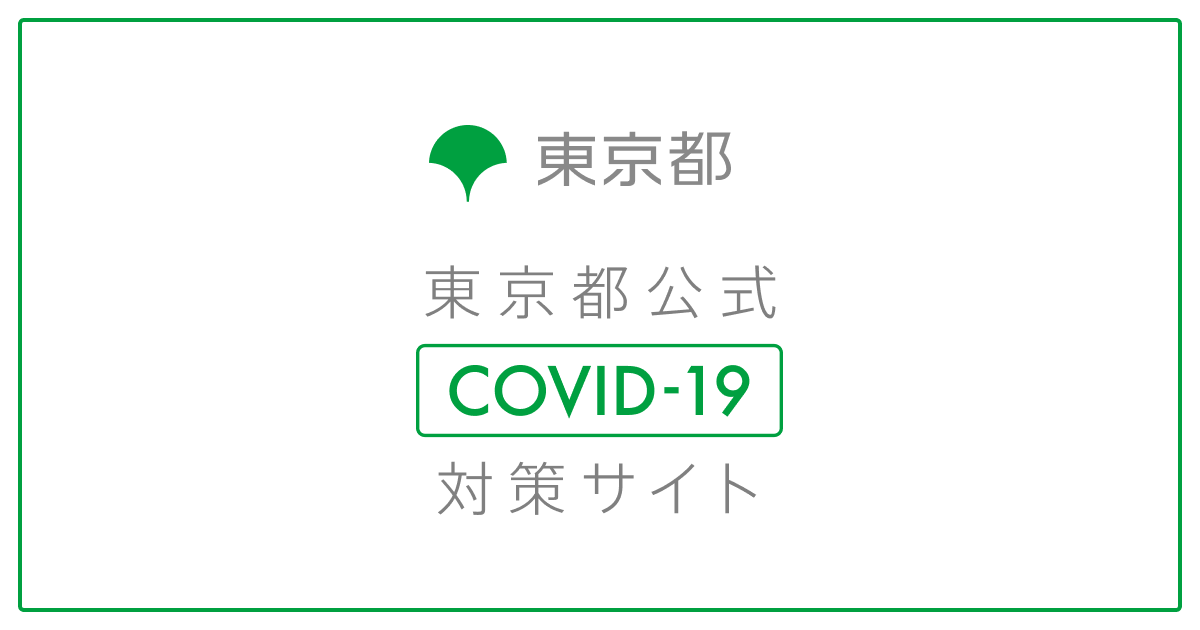
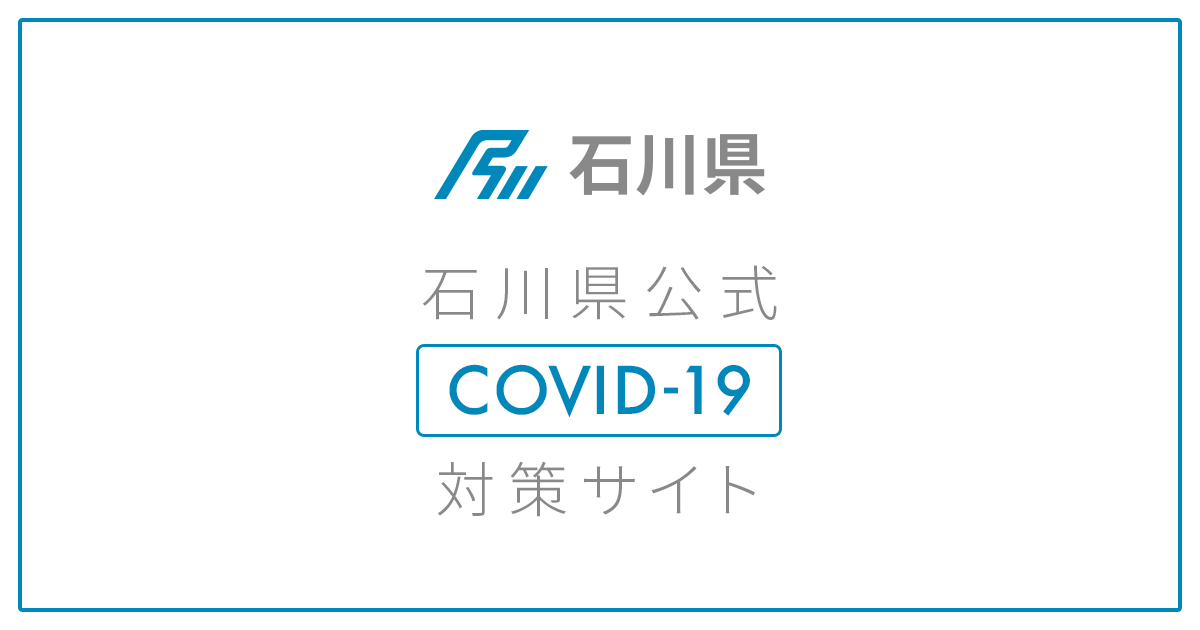
Rewrite Tokyo to Ishikawa

diff --git a/components/SideNavigation.vue b/components/SideNavigation.vue
@@ -34,7 +34,7 @@
       </v-icon>
 
       <nav class="SideNavigation-Menu">
-        <div class="SideNavigation-Language">
+        <!-- <div class="SideNavigation-Language">
           <div
             v-if="this.$i18n.locales.length > 1"
             class="SideNavigation-Language"
@@ -44,45 +44,12 @@
             </label>
             <language-selector />
           </div>
-        </div>
+        </div> -->
         <menu-list :items="items" @click="$emit('closeNavi', $event)" />
       </nav>
 
       <footer class="SideNavigation-Footer">
         <div class="SideNavigation-Social">
-          <a
-            href="https://line.me/R/ti/p/%40822sysfc"
-            target="_blank"
-            rel="noopener noreferrer"
-            class="SideNavigation-SocialLink"
-          >
-            <picture>
-              <source srcset="/line.webp" type="image/webp" />
-              <img src="/line.png" alt="LINE" />
-            </picture>
-          </a>
-          <a
-            href="https://twitter.com/tokyo_bousai"
-            target="_blank"
-            rel="noopener noreferrer"
-            class="SideNavigation-SocialLink"
-          >
-            <picture>
-              <source srcset="/twitter.webp" type="image/webp" />
-              <img src="/twitter.png" alt="Twitter" />
-            </picture>
-          </a>
-          <a
-            href="https://www.facebook.com/tochokoho"
-            target="_blank"
-            rel="noopener noreferrer"
-            class="SideNavigation-SocialLink"
-          >
-            <picture>
-              <source srcset="/facebook.webp" type="image/webp" />
-              <img src="/facebook.png" alt="Facebook" />
-            </picture>
-          </a>
           <a
             href="https://github.com/tokyo-metropolitan-gov/covid19"
             target="_blank"
@@ -157,43 +124,33 @@ export default Vue.extend({
           title: this.$t('お子様をお持ちの皆様へ'),
           link: this.localePath('/parent')
         },
-        {
-          icon: 'mdi-account-multiple',
-          title: this.$t('都民の皆様へ'),
-          link: 'https://www.metro.tokyo.lg.jp/tosei/tosei/news/2019-ncov.html'
-        },
-        {
-          icon: 'mdi-domain',
-          title: this.$t('企業の皆様・はたらく皆様へ'),
-          link: this.localePath('/worker'),
-          divider: true
-        },
-        {
-          title: this.$t('石川県新型コロナウイルス感染症対策本部報'),
-          link:
-            'https://www.bousai.metro.tokyo.lg.jp/taisaku/saigai/1007261/index.html'
-        },
-        {
-          title: this.$t('石川県主催等 中止又は延期するイベント等'),
-          link:
-            'https://www.seisakukikaku.metro.tokyo.lg.jp/information/event00.html'
-        },
-        {
-          title: this.$t('知事からのメッセージ'),
-          link:
-            'https://www.metro.tokyo.lg.jp/tosei/governor/governor/katsudo/2020/03/03_00.html'
-        },
+        // {
+        //   icon: 'mdi-account-multiple',
+        //   title: this.$t('県民の皆様へ'),
+        //   link: 'https://www.metro.tokyo.lg.jp/tosei/tosei/news/2019-ncov.html'
+        // },
+        // {
+        //   title: this.$t('石川県新型コロナウイルス感染症対策本部報'),
+        //   link:
+        //     'https://www.bousai.metro.tokyo.lg.jp/taisaku/saigai/1007261/index.html'
+        // },
+        // {
+        //   title: this.$t('石川県主催等 中止又は延期するイベント等'),
+        //   link:
+        //     'https://www.seisakukikaku.metro.tokyo.lg.jp/information/event00.html'
+        // },
+        // {
+        //   title: this.$t('知事からのメッセージ'),
+        //   link:
+        //     'https://www.metro.tokyo.lg.jp/tosei/governor/governor/katsudo/2020/03/03_00.html'
+        // },
         {
           title: this.$t('当サイトについて'),
           link: this.localePath('/about')
         },
         {
-          title: this.$t('お問い合わせ先一覧'),
-          link: this.localePath('/contacts')
-        },
-        {
           title: this.$t('石川県公式ホームページ'),
-          link: 'https://www.metro.tokyo.lg.jp/'
+          link: 'https://www.pref.ishikawa.lg.jp/'
         }
       ]
     }
@@ -359,11 +316,11 @@ export default Vue.extend({
   }
 }
 
-.SideNavigation-LanguageLabel {
-  display: block;
-  margin-bottom: 5px;
-  font-size: 0.85rem;
-}
+// .SideNavigation-LanguageLabel {
+//   display: block;
+//   margin-bottom: 5px;
+//   font-size: 0.85rem;
+// }
 
 .SideNavigation-Footer {
   padding-top: 20px;

diff --git a/pages/contacts.vue b/pages/contacts.vue
@@ -34,7 +34,7 @@
           <tr>
             <td class="content" v-bind="headingAttrs">
               {{ $t('新型コロナウイルス感染症対策本部会議に関すること')
-              }}<br />{{ $t('都庁来庁者データに関すること') }}
+              }}<br />{{ $t('県庁来庁者データに関すること') }}
             </td>
             <td class="bureau">{{ $t('総務局') }}</td>
             <td class="tel">
@@ -42,7 +42,7 @@
                 href="tel:03-5388-2453"
                 >03-5388-2453</a
               ><br />
-              {{ $t('都庁来庁者データに関すること') }}<br /><a
+              {{ $t('県庁来庁者データに関すること') }}<br /><a
                 href="tel:03-5388-2319"
                 >03-5388-2319</a
               >

diff --git a/components/WhatsNew.vue b/components/WhatsNew.vue
@@ -12,8 +12,8 @@
           mdi-bullhorn
         </v-icon>
         <external-link
-          url="https://www.bousai.metro.tokyo.lg.jp/1007617/index.html"
-          :label="$t('石川県緊急事態措置について')"
+          url="https://www.pref.ishikawa.lg.jp/library_documents/kjs200413.pdf"
+          :label="$t('石川県緊急事態宣言について')"
         />
       </span>
     </div>

diff --git a/components/cards/AgencyCard.vue b/components/cards/AgencyCard.vue
@@ -1,7 +1,7 @@
 <template>
   <v-col cols="12" md="6" class="DataCard">
     <agency-bar-chart
-      :title="$t('都庁来庁者数の推移')"
+      :title="$t('県庁来庁者数の推移')"
       :title-id="'agency'"
       :chart-id="'agency'"
       :chart-data="agencyData"

diff --git a/pages/cards/_card.vue b/pages/cards/_card.vue
@@ -95,7 +95,7 @@ export default {
         updatedAt = Data.querents.date
         break
       case 'agency':
-        title = this.$t('都庁来庁者数の推移')
+        title = this.$t('県庁来庁者数の推移')
         updatedAt = agencyData.date
         break
     }

diff --git a/components/MenuList.vue b/components/MenuList.vue
@@ -94,7 +94,7 @@ export default Vue.extend({
 
 <style lang="scss" scoped>
 .MenuList {
-  margin-top: 24px;
+  // margin-top: 24px;
   padding: 12px 0;
   border-bottom: 1px solid $gray-4;
 

diff --git a/CODE_OF_CONDUCT.md b/CODE_OF_CONDUCT.md
@@ -2,7 +2,7 @@ version 1.0, 2020/3/3
 
 # 我々はなぜここにいるのか
 
-* 都民の生命と健康を守るため
+* 県民の生命と健康を守るため
 * 正しいデータをオープンに国内/海外の人に伝える
 * 正しいものを正しく、ともに作るプロセスの効果を具体的に示す
 
@@ -30,6 +30,6 @@ version 1.0, 2020/3/3
 
 ## Build with people
 
-* 都庁の人だけではなく、様々な人々とともに作る
+* 県庁の人だけではなく、様々な人々とともに作る
 * 市民エンジニアの貢献を歓迎する
 * 情報を求める人達とともに、サイトを育てていく

diff --git a/docs/zh_CN/CODE_OF_CONDUCT.md b/docs/zh_CN/CODE_OF_CONDUCT.md
@@ -2,7 +2,7 @@ version 1.0, 2020/3/3
 
 # 我们的使命
 
-* 我们为了保护东京都都民的生命以及健康。
+* 我们为了保护东京都県民的生命以及健康。
 * 我们为了向海内外人士提供正确的数据。
 * 我们会展现我们的诚信，并且将我们的工作成果视觉化。
 

diff --git a/docs/zh_TW/CODE_OF_CONDUCT.md b/docs/zh_TW/CODE_OF_CONDUCT.md
@@ -2,7 +2,7 @@ version 1.0, 2020/3/3
 
 # 我們的使命
 
-* 我們為了保護石川県都民的生命以及健康。
+* 我們為了保護石川県県民的生命以及健康。
 * 我們為了向海內外人士提供正確的數據。
 * 我們將會展示我們的品德以及視覺化我們的工作成果。
 
